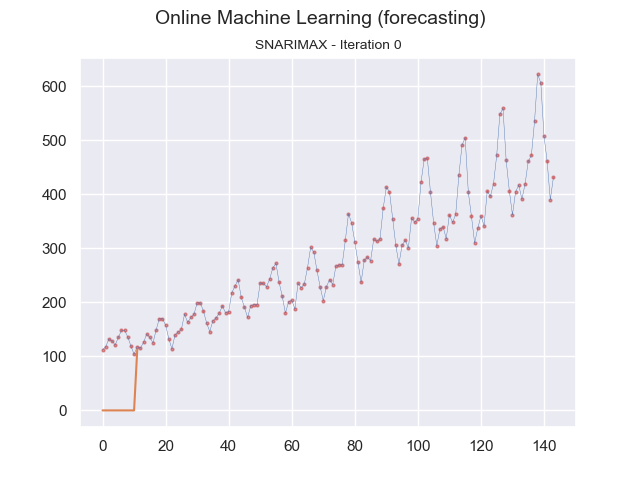
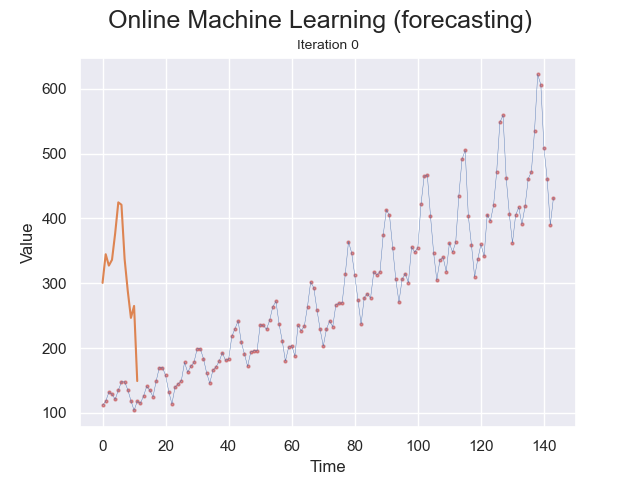
IOW POST request + SPARQL query

diff --git a/data_processing/crawl_demo.py b/data_processing/crawl_demo.py
@@ -1,0 +1,92 @@
+from rdflib import Graph, plugin
+from rdflib.serializer import Serializer
+from rdflib import URIRef
+from rdflib.namespace import RDF
+
+
+testrdf = """
+_:Bc6bd21f176c98b8ebba307244ce8e109 <http://www.w3.org/1999/02/22-rdf-syntax-ns#type> <http://def.isotc211.org/iso19156/2011/Measurement#OM_Measurement> .
+_:Bc6bd21f176c98b8ebba307244ce8e109 <http://def.isotc211.org/iso19156/2011/Observation#OM_Observation.observedProperty> <https://data.vmm.be/concept/waterkwaliteitparameter/conductiviteit> .
+_:Bc6bd21f176c98b8ebba307244ce8e109 <http://def.isotc211.org/iso19156/2011/Observation#OM_Observation.phenomenonTime> "2020-01-15T12:59:42.206Z"^^<http://www.w3.org/2001/XMLSchema#datetime> .
+_:Bc6bd21f176c98b8ebba307244ce8e109 <http://def.isotc211.org/iso19156/2011/Observation#OM_Observation.result> _:B877b75f4c6281c28a434fa6233023d71 .
+_:Bc6bd21f176c98b8ebba307244ce8e109 <http://www.w3.org/ns/sosa/madeBySensor> <urn:ngsi-v2:cot-imec-be:device:imec-wqsensor-2047475712> .
+<urn:ngsi-ld:WaterQualityObserved:nbiot.2047475712/2020-01-15T12:59:42.206Z> <http://www.w3.org/1999/02/22-rdf-syntax-ns#type> <https://www.w3.org/TR/vocab-ssn-ext/#sosa:ObservationCollection> .
+<urn:ngsi-ld:WaterQualityObserved:nbiot.2047475712/2020-01-15T12:59:42.206Z> <http://def.isotc211.org/iso19156/2011/SamplingFeature#SF_SamplingFeatureCollection.member> _:Bc6bd21f176c98b8ebba307244ce8e109 .
+<urn:ngsi-ld:WaterQualityObserved:nbiot.2047475712/2020-01-15T12:59:42.206Z> <http://def.isotc211.org/iso19156/2011/SamplingFeature#SF_SamplingFeatureCollection.member> _:B038df59a80f4a467e41ad783c84b3adf .
+<urn:ngsi-ld:WaterQualityObserved:nbiot.2047475712/2020-01-15T12:59:42.206Z> <http://def.isotc211.org/iso19156/2011/SamplingFeature#SF_SamplingFeatureCollection.member> _:Ba31e3cc80aa0c2f03f2937547d2a27ab .
+<urn:ngsi-ld:WaterQualityObserved:nbiot.2047475712/2020-01-15T12:59:42.206Z> <http://purl.org/dc/terms/isVersionOf> <urn:ngsi-ld:WaterQualityObserved:nbiot.2047475712> .
+<urn:ngsi-ld:WaterQualityObserved:nbiot.2047475712/2020-01-15T12:59:42.206Z> <http://www.w3.org/ns/prov#generatedAtTime> "2020-01-15T12:59:42.206Z"^^<http://www.w3.org/2001/XMLSchema#dateTime> .
+_:Ba31e3cc80aa0c2f03f2937547d2a27ab <http://www.w3.org/1999/02/22-rdf-syntax-ns#type> <http://def.isotc211.org/iso19156/2011/SpatialSamplingFeature#SF_SpatialSamplingFeature> .
+_:Ba31e3cc80aa0c2f03f2937547d2a27ab <http://def.isotc211.org/iso19156/2011/SpatialSamplingFeature#SF_SpatialSamplingFeature.shape> "2.817023333E0"^^<http://www.w3.org/2001/XMLSchema#double> .
+_:Ba31e3cc80aa0c2f03f2937547d2a27ab <http://def.isotc211.org/iso19156/2011/SpatialSamplingFeature#SF_SpatialSamplingFeature.shape> "5.09912403E1"^^<http://www.w3.org/2001/XMLSchema#double> .
+_:Ba31e3cc80aa0c2f03f2937547d2a27ab <http://def.isotc211.org/iso19156/2011/SpatialSamplingFeature#SF_SpatialSamplingFeature.shape> _:Be1eeb70fc9df87c275dfd26269eda66f .
+_:Bd577ef0f2bffeb73b8137b091613f002 <http://def.isotc211.org/iso19103/2005/UnitsOfMeasure#Measure.value> _:Beeae326921ead7ec5c93d26145ad09a9 .
+_:B877b75f4c6281c28a434fa6233023d71 <http://def.isotc211.org/iso19103/2005/UnitsOfMeasure#Measure.value> _:B51924fbd62817cf364ce95702432a8fe .
+_:Beeae326921ead7ec5c93d26145ad09a9 <https://schema.org/value> "7.75E0"^^<http://www.w3.org/2001/XMLSchema#double> .
+_:B038df59a80f4a467e41ad783c84b3adf <http://www.w3.org/1999/02/22-rdf-syntax-ns#type> <http://def.isotc211.org/iso19156/2011/Measurement#OM_Measurement> .
+_:B038df59a80f4a467e41ad783c84b3adf <http://def.isotc211.org/iso19156/2011/Observation#OM_Observation.observedProperty> <https://data.vmm.be/concept/waterkwaliteitparameter/temperatuur> .
+_:B038df59a80f4a467e41ad783c84b3adf <http://def.isotc211.org/iso19156/2011/Observation#OM_Observation.phenomenonTime> "2020-01-15T12:59:42.206Z"^^<http://www.w3.org/2001/XMLSchema#datetime> .
+_:B038df59a80f4a467e41ad783c84b3adf <http://def.isotc211.org/iso19156/2011/Observation#OM_Observation.result> _:Bd577ef0f2bffeb73b8137b091613f002 .
+_:B038df59a80f4a467e41ad783c84b3adf <http://www.w3.org/ns/sosa/madeBySensor> <urn:ngsi-v2:cot-imec-be:device:imec-wqsensor-2047475712> .
+<https://iow.smartdataspace.beta-vlaanderen.be/water-quality-observations> <https://w3id.org/tree#member> <urn:ngsi-ld:WaterQualityObserved:nbiot.2047475712/2020-01-15T12:59:42.206Z> .
+_:B51924fbd62817cf364ce95702432a8fe <https://schema.org/value> "6.8237205524E2"^^<http://www.w3.org/2001/XMLSchema#double> .
+"""
+
+g = Graph().parse(data=testrdf, format='n3')
+
+#print(g.serialize(format='json-ld', indent=4))
+
+context = {"@vocab": "http://purl.org/dc/terms/", "@language": "en"}
+#print(g.serialize(format='json-ld', context=context, indent=4))
+
+temperature = []
+
+
+
+def crawl_parameter(parameter_string, graph_input):
+    for s, p, o in graph_input:
+        if (str(p) == parameter_string):
+           return str(o)
+
+
+knows_query = """
+PREFIX sosa: <https://www.w3.org/TR/vocab-ssn-ext/#sosa:>
+PREFIX samplecollection: <http://def.isotc211.org/iso19156/2011/SamplingFeature#SF_SamplingFeatureCollection.>
+PREFIX measure: <http://def.isotc211.org/iso19156/2011/Measurement#>
+PREFIX unitsofmeasure: <http://def.isotc211.org/iso19103/2005/UnitsOfMeasure#Measure.>
+PREFIX observation: <http://def.isotc211.org/iso19156/2011/Observation#OM_Observation.>
+PREFIX waterkwaliteitparameter: <https://data.vmm.be/concept/waterkwaliteitparameter/>
+PREFIX sensor: <https://data.vmm.be/concept/sensor/>
+PREFIX schema: <https://schema.org/>
+PREFIX prov: <http://www.w3.org/ns/prov#>
+SELECT ?collection ?generated_at ?temperature ?conductivity ?batterylevel
+WHERE {
+  ?collection a sosa:ObservationCollection .
+  ?collection prov:generatedAtTime ?generated_at .
+  OPTIONAL {
+    ?collection samplecollection:member ?member1 .
+    ?member1 observation:observedProperty waterkwaliteitparameter:temperatuur .
+    ?member1 observation:result/unitsofmeasure:value/schema:value ?temperature .
+  }
+  OPTIONAL {
+    ?collection samplecollection:member ?member2 .
+    ?member2 observation:observedProperty waterkwaliteitparameter:conductiviteit .
+    ?member2 observation:result/unitsofmeasure:value/schema:value ?conductivity
+  }
+  OPTIONAL {
+    ?collection samplecollection:member ?member3 .
+    ?member3 observation:observedProperty sensor:batterijniveau .
+    ?member3 observation:result/unitsofmeasure:value/schema:value ?batterylevel
+  }
+}
+    """
+
+qres = g.query(knows_query)
+for row in qres:
+    for i in range(len(row)):
+        print(f"{row[i]}")
+
+
+
+test = crawl_parameter('http://def.isotc211.org/iso19156/2011/SamplingFeature#SF_SamplingFeatureCollection.member', g)
+print(test)

diff --git a/server_iow.py b/server_iow.py
@@ -5,7 +5,7 @@ import rdflib
 import sys
 import data_processing.ttl2jsonld
 import data_processing.crawled
-import ml_tests.regression_input
+#import ml_tests.regression_input
 #import data_processing.add_tripple
 from rdflib import Graph, plugin
 from functools import lru_cache
@@ -55,6 +55,7 @@ class webserverHandler(BaseHTTPRequestHandler):
             self.send_error(404, "File not found %s" % self.path)
 
     def do_POST(self):
+
         try:
             if self.path.endswith("/input"):
                 self.send_response(200)
@@ -68,59 +69,22 @@ class webserverHandler(BaseHTTPRequestHandler):
                 #pdict['boundary'] = bytes(pdict['boundary'], "utf-8")
                 #pdict['CONTENT-LENGTH'] = content_len
                 print('POST request input:')
-                print(post_body)
-
-                
-                testrdf = """
-                @prefix dcterms: <http://purl.org/dc/terms/> .
-                <http://example.org/about>
-                dcterms:temperature "10"@en ;
-                dcterms:salinity "20"@en .
-                """
+                #print(post_body)
 
                 ##CONVERSION TO JSON-LD
                 print('conversion to json-ld:')
-                #print(data_processing.ttl2jsonld.convert_rdf_2_jsonld(post_body))
+                print(data_processing.ttl2jsonld.convert_rdf_2_jsonld(post_body))
                 input = data_processing.ttl2jsonld.convert_rdf_2_jsonld(post_body)
                 
                 
                 g = Graph().parse(data=input, format='json-ld')
-                salinity = data_processing.crawled.crawl_parameter('http://purl.org/dc/terms/salinity', g)
-                print('crawled salinity is :' + salinity)
-
-                time = data_processing.crawled.crawl_parameter('http://purl.org/dc/terms/time', g)
+                time = data_processing.crawled.crawl_parameter('http://www.w3.org/ns/prov#generatedAtTime', g)
                 print('crawled time is :' + time)
 
-                temperature = data_processing.crawled.crawl_parameter('http://purl.org/dc/terms/temperature', g)
-                print('crawled temperature is :' + temperature)
+                name = data_processing.crawled.crawl_parameter('https://schema.org/value', g)
+                print('crawled temperature is :' + name + '----------------------------------------------------------------------------------------------------------------')
 
-                
 
-                # LINEAR REGRESSION
-                print('--running regression models--')
-                print('estimated temperature based on linear regression:')
-                print(ml_tests.regression_input.run_linear_model(float(salinity)))
-                temp_lin = str(ml_tests.regression_input.run_linear_model(float(salinity)))
-                temp_lin = Literal(temp_lin)
-
-                # MULTIPLE LINEAR REGRESSION
-                print('estimated temperature based on polynomial regression:')
-                print(ml_tests.regression_input.run_multiple_lin_regression(float(salinity)))
-                temp_mul_lin = str(ml_tests.regression_input.run_multiple_lin_regression(float(salinity)))
-                temp_mul_lin = Literal(temp_mul_lin)
-
-                # DECISION TREE REGRESSION
-                print('estimated temperature based on decision tree regression:')
-                print(ml_tests.regression_input.run_decisiontreeregressor(float(salinity)))
-                temp_dec_tree = str(ml_tests.regression_input.run_decisiontreeregressor(float(salinity)))
-                temp_dec_tree = Literal(temp_dec_tree)
-
-                #ADDING TON JSON-LD
-                g.add((Literal('temp_lin'), RDF.value, temp_lin))
-                g.add((Literal('temp_mul_lin'), RDF.value, temp_mul_lin))
-                g.add((Literal('temp_dec_tree'), RDF.value, temp_dec_tree))
-                print(g.serialize())
-                test = str(g.serialize())
 
                 One().set_a(test)
 
@@ -128,8 +92,9 @@ class webserverHandler(BaseHTTPRequestHandler):
                 self.wfile.write(test.encode())
                 return
         except:
-            self.send_error(404, "{}".format(sys.exc_info()[1]))
+            #self.send_error(404, "{}".format(sys.exc_info()[1]))
             #print(sys.exc_info())
+            print('hallo')
 
 def main():
     try:

diff --git a/ml_tests/forecasting.py b/ml_tests/forecasting.py
@@ -5,7 +5,7 @@ import datetime as dt
 import seaborn as sns
 import numpy as np
 import matplotlib.pyplot as plt
-
+from sklearn.metrics import r2_score
 
 file_names = []
 
@@ -41,6 +41,8 @@ for j in range(143):
 
     prediction = 0
     forecast = [1]
+    forecast_list = []
+    history_list = []
     
     q=0
     for t, (x, y) in enumerate(datasets.AirlinePassengers()):
@@ -50,6 +52,19 @@ for j in range(143):
         print(y)
         forecast = model.forecast(horizon=horizon)
         print(forecast)
+        t_list2=[]
+        forecast_list.append(forecast)
+        history_list.append(y)
+
+        if(len(history_list)>13):
+            for i in range(12, 1, -1):
+                    #print('R² score:', str(r2_score(history_list, forecast_list[-i:])))
+                    print('overview :', forecast_list[-1])
+                    print('overview :', forecast_list)
+                    break
+                    #print('MAE score:', mae(current_values, forecast_list[-i:]))
+
+
         prediction = y
         for i in range(len(forecast)):
             t_list2.append(t+i)

diff --git a/data_processing/crawled.py b/data_processing/crawled.py
@@ -28,5 +28,8 @@ def crawl_parameter(parameter_string, graph_input):
 
            return str(o)
 
+
+
+
 test = crawl_parameter('http://purl.org/dc/terms/salinity', g)
 print(test)
